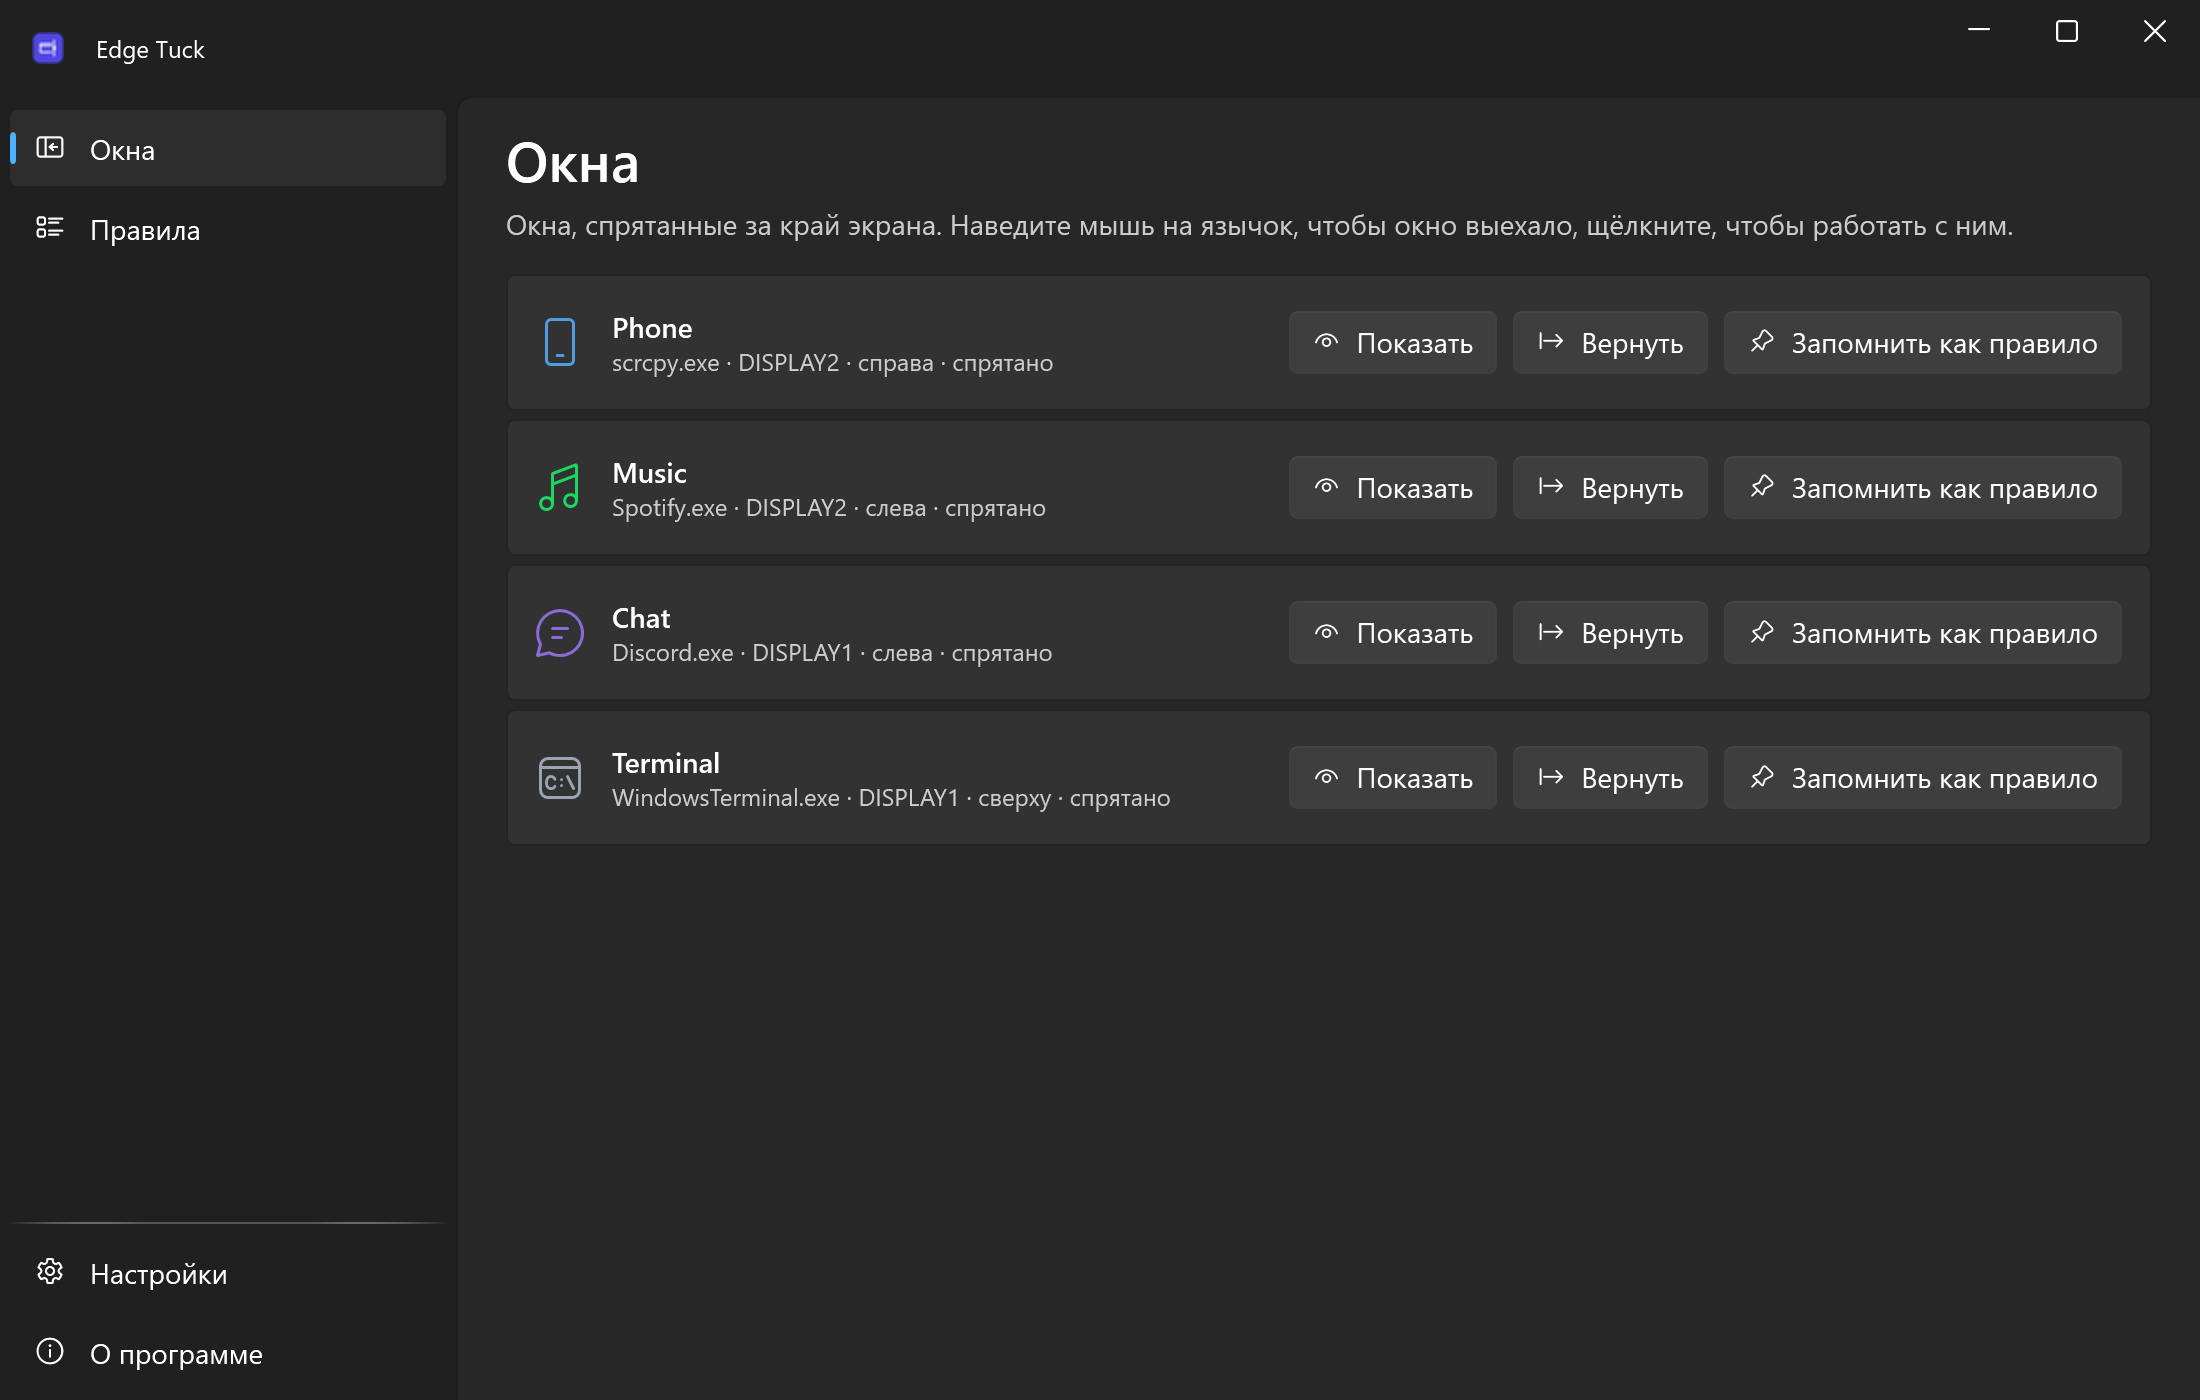
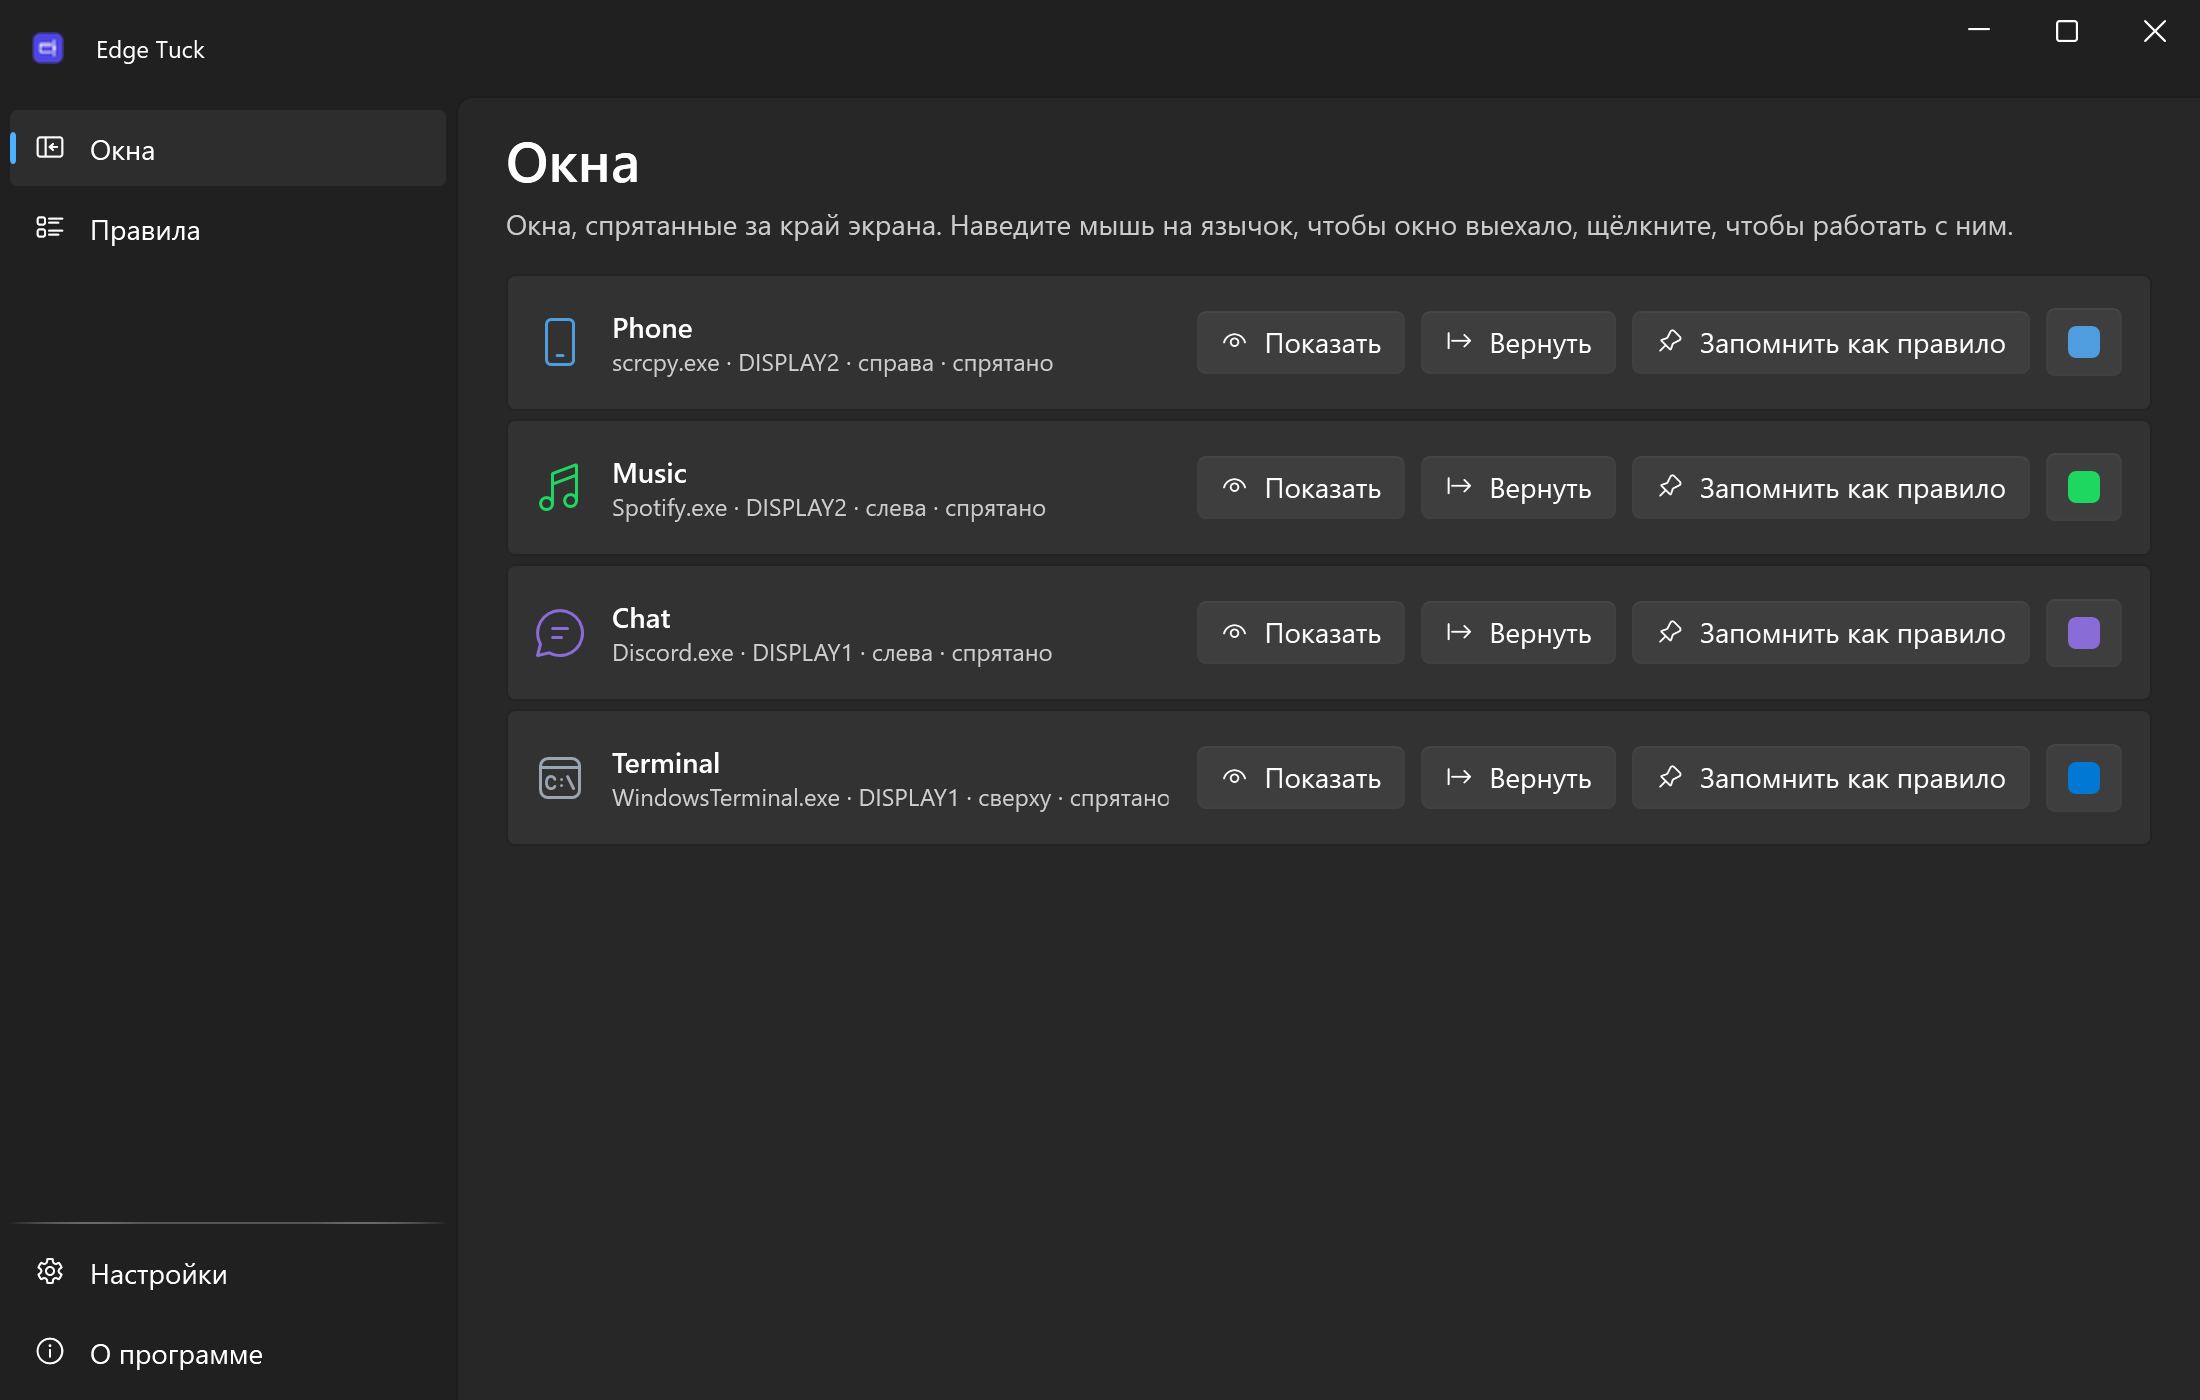
v1.1: the Windows page shows each window's real tab color; a rule without its own color shows an empty square; README and screenshots for 1.1

diff --git a/src/EdgeTuck/Pages/RulesPage.xaml b/src/EdgeTuck/Pages/RulesPage.xaml
@@ -58,7 +58,7 @@
                                 <l:HotkeyBox Grid.Row="2" Grid.Column="1" Hotkey="{Binding Hotkey}" HorizontalAlignment="Left" Margin="0,4" />
                                 <ui:TextBlock Grid.Row="3" Text="{l:T Settings.TabColor}" VerticalAlignment="Center" Margin="0,4,16,4" />
                                 <ui:Button Grid.Row="3" Grid.Column="1" HorizontalAlignment="Left" Margin="0,4" Padding="10,8" Click="OnColor">
-                                    <Border Width="16" Height="16" CornerRadius="4" Background="{Binding TabBrush, TargetNullValue={StaticResource SystemAccentBrush}}" />
+                                    <Border Width="16" Height="16" CornerRadius="4" BorderThickness="1.5" BorderBrush="{DynamicResource TextFillColorSecondaryBrush}" Background="{Binding TabBrush}" />
                                 </ui:Button>
                             </Grid>
                         </ui:CardExpander>

diff --git a/src/EdgeTuck/Features/TuckManager.cs b/src/EdgeTuck/Features/TuckManager.cs
@@ -629,6 +629,7 @@ public static class TuckManager
     static void RelayoutTabs()
     {
         var size = TabSize();
+        foreach (var t in Windows) t.ColorMayChange();
         foreach (var g in Windows.Where(t => t.Tab is not null).GroupBy(t => (t.Plan.Monitor.Device, t.Plan.Edge, t.Plan.Segment)))
         {
             var list = g.ToList();
@@ -648,7 +649,7 @@ public static class TuckManager
     /// v1.1: the window's own color, else its rule's, else Settings: the icon's dominant color (readable on the theme; a colorless
     /// icon gets the accent), the Windows accent, or the custom color. Null = the accent.
     /// </summary>
-    static System.Windows.Media.Color? ColorFor(Tucked t)
+    internal static System.Windows.Media.Color? ColorFor(Tucked t)
     {
         if (TabColors.Parse(t.TabColor) is { } own) return own;
         if (TabColors.Parse(S.Rules.FirstOrDefault(r => r.TabColor is not null && r.Exe.Equals(t.Program, StringComparison.OrdinalIgnoreCase))?.TabColor) is { } ruled)

diff --git a/src/EdgeTuck/Features/Tucked.cs b/src/EdgeTuck/Features/Tucked.cs
@@ -48,7 +48,10 @@ public sealed class Tucked : INotifyPropertyChanged
         set { tabColor = value; Changed(); Changed(nameof(TabBrush)); }
     }
 
-    public System.Windows.Media.Brush? TabBrush => TabColors.Parse(TabColor) is { } c ? new System.Windows.Media.SolidColorBrush(c) : null;
+    /// <summary>The color the tab has now (own, rule's or Settings'); null = the accent.</summary>
+    public System.Windows.Media.Brush? TabBrush => TuckManager.ColorFor(this) is { } c ? new System.Windows.Media.SolidColorBrush(c) : null;
+
+    public void ColorMayChange() => Changed(nameof(TabBrush));
 
     public string Title
     {

diff --git a/README.md b/README.md
@@ -31,7 +31,7 @@ Edge Tuck slides such a window behind the screen edge and leaves a thin tab ther
 - **Rules** — scrcpy, a chat, music or a terminal tuck themselves to their edge when they open; a title filter, a minimum size and a key to show or hide the window (quake mode for any program).
 - **Out of the way in games** — tabs disappear while a fullscreen app is in front.
 - **Never loses a window** — a journal written before every move and a guard process bring everything back, even after a crash.
-- **Tabs that talk** — a tab lights up when its window wants attention; drag a file onto it and the window comes out; drag the tab along the edge, show the program's icon on it.
+- **Tabs that talk** — colored like the program's icon (or your color), a tab lights up when its window wants attention; drag a file onto it and the window comes out; drag the tab along the edge.
 - **Multi-monitor aware** — down to the free part of an edge (a portrait monitor next to an ultrawide), a click tab even on the edge between two monitors, mixed DPI, virtual desktops. No admin, no telemetry, everything local.
 
 ## See it in action
@@ -86,13 +86,14 @@ Try it: click a window and press `Ctrl+Win+Alt+←`, then point at the tab on th
 | Return all windows | `Ctrl+Win+Alt+Home` | Emergency: every tucked window back on screen (also in the tray menu) |
 | Slide out after hovering the tab | 200 ms | |
 | Slide back after the mouse leaves | 400 ms | |
-| Slide animation | 150 ms | 0 = instant |
+| Slide animation | 150 ms | 0 = instant; none while Windows' "Show animations" is off |
 | Tab size | 6 × 64 DIP | Grows with the monitor's scale |
 | Drag past the edge to tuck | on, 50 % | Left, right and bottom edges; this much of the window must be behind the edge |
 | Hide tabs while a fullscreen app is in front | on | Games and fullscreen video |
 | Slide out when the mouse rests on a tab | on | Off: tabs open by click only |
 | Tabs on edges shared with another monitor | on, open by click | The window waits behind an outer edge and appears at once |
 | Tab with the program's icon | off | A wider tab with the icon |
+| Tab color | from the program's icon | Made readable on the light or dark theme (a colorless icon gets the accent); or the Windows accent, or your color (palette or HEX). A rule or a single window (Windows page) can have its own |
 | Rules | none | "Always tuck this program here", from a tab's menu or a template (scrcpy, Discord, Spotify, Windows Terminal); title filter, minimum size, own key |
 | Language, theme | Windows | English or Russian, light or dark |
 | Start with Windows | on after install | Rules work while Edge Tuck runs |
